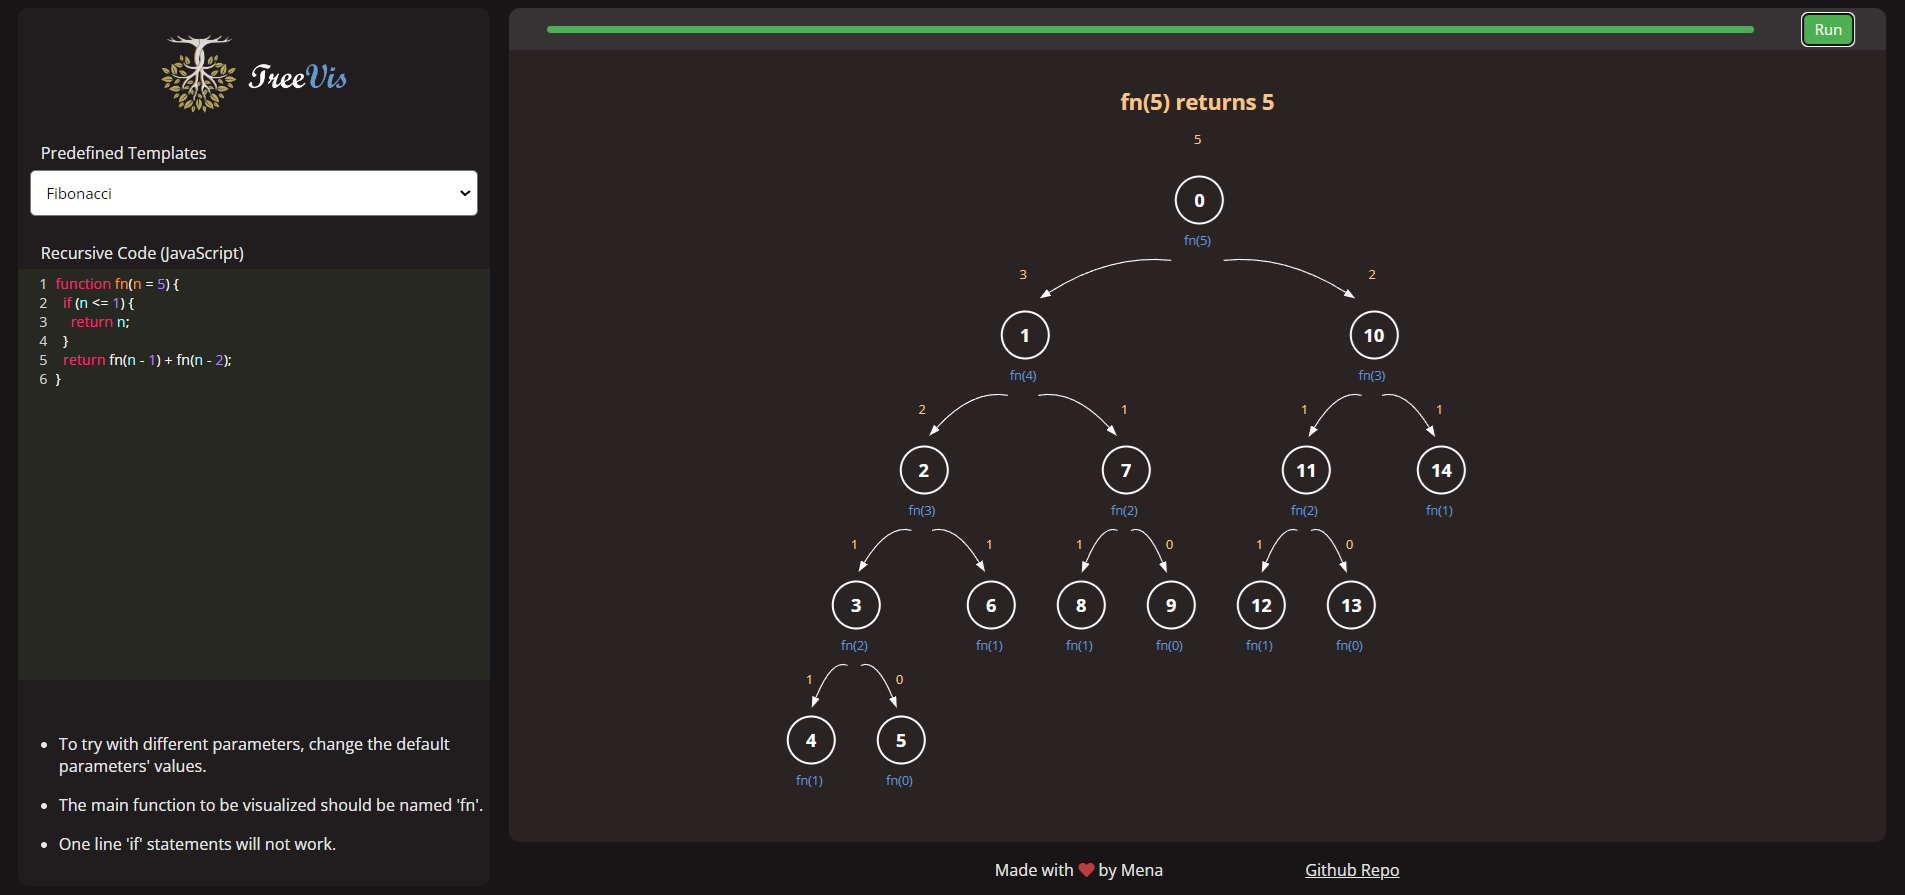
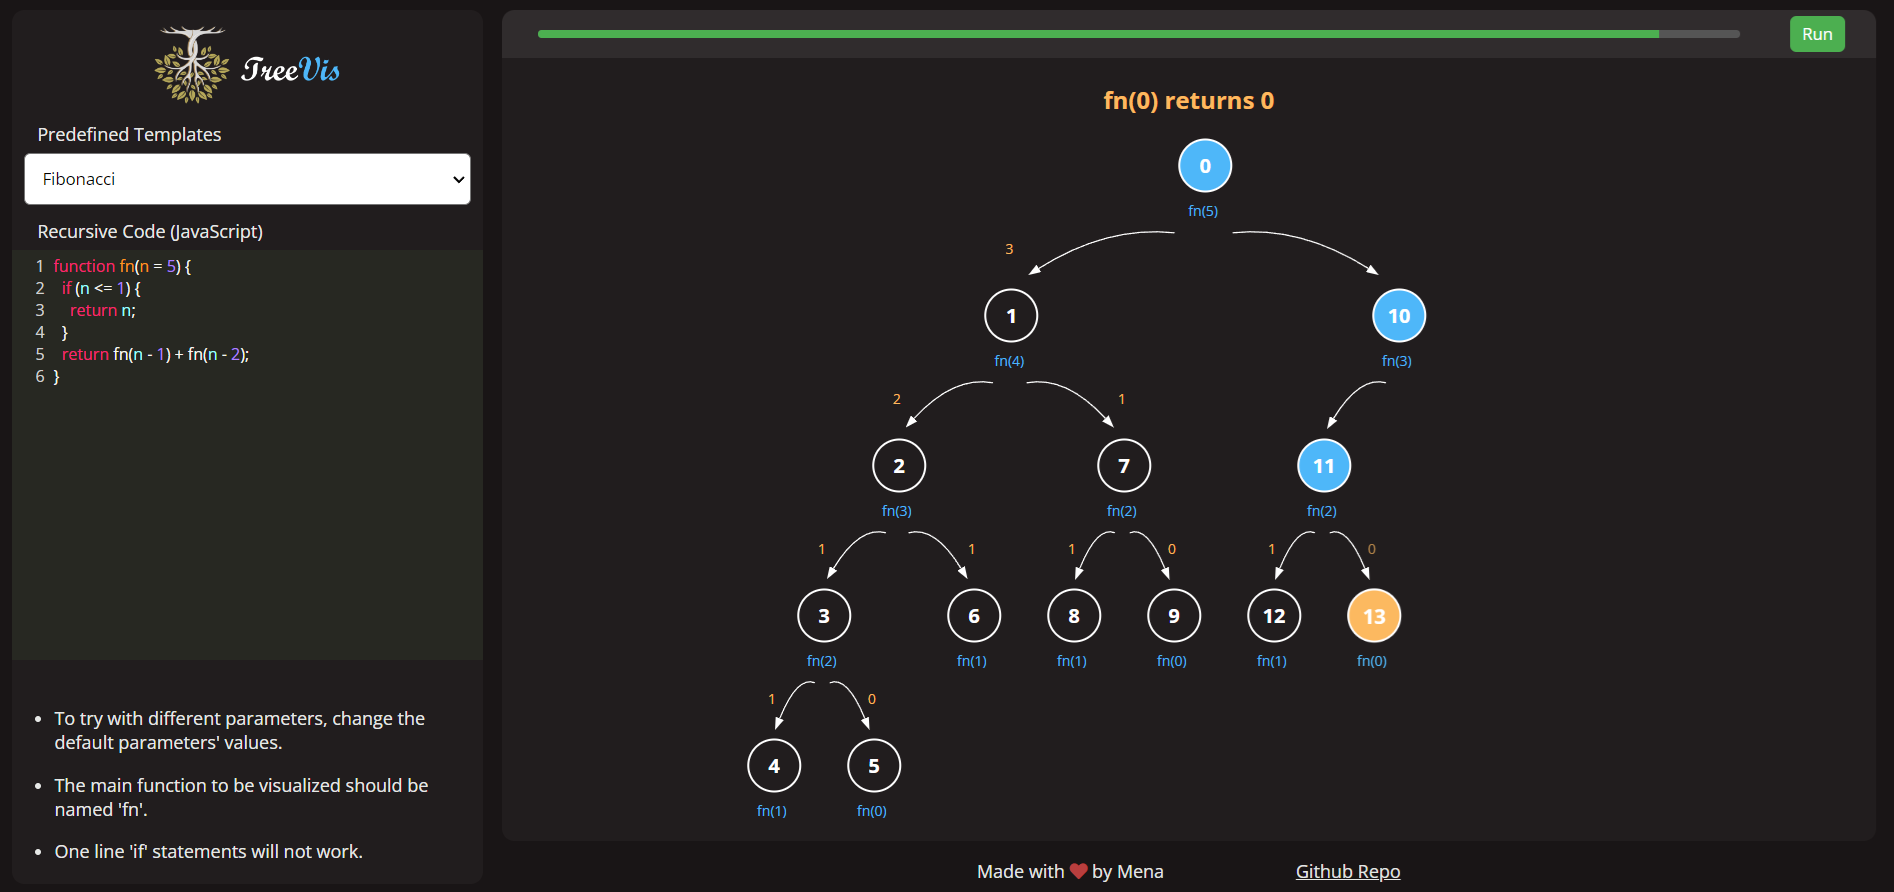
Minor design changes

diff --git a/Scripts/algorithms.js b/Scripts/algorithms.js
@@ -11,7 +11,7 @@ const algorithms = {
   }
   return n * fn(n - 1);
 }`,
-  MergeSort: `function fn(arr = [5, 2, 9, 1, 5, 6]) {
+  "Merge Sort": `function fn(arr = [5, 2, 9, 1, 5, 6]) {
     if (arr.length <= 1){
     return arr;
     }
@@ -37,20 +37,30 @@ function merge(left, right) {
 
     return result.concat(left.slice(i)).concat(right.slice(j));
 }`,
-  LongestCommonSubsequence: `str1 = "ABC";
-str2 = "AEB";
-function fn( m = str1.length, n = str2.length) {
+  "Longest Common Subsequence (Memoized)": `var str1 = "ABC";
+var str2 = "AEB";
+var memo = {}; 
+
+function fn(m = str1.length, n = str2.length) {
+    let key = m + "," + n;
+
     if (m === 0 || n === 0){
     return 0;
     }
-    if (str1[m - 1] === str2[n - 1]) {
-        return 1 + fn(m - 1, n - 1);
-    } else {
-        return Math.max(fn(m - 1, n), fn(m, n - 1));
+
+    if (key in memo){
+    return memo[key];
     }
-}
-`,
-  QuickSort: `function fn(arr = [3, 6, 8, 10, 1, 2, 1]) {
+
+    if (str1[m - 1] === str2[n - 1]) {
+        memo[key] = 1 + fn(m - 1, n - 1);
+    } else {
+        memo[key] = Math.max(fn(m - 1, n), fn(m, n - 1));
+    }
+
+    return memo[key];
+}`,
+  "Quick Sort": `function fn(arr = [3, 6, 8, 10, 1, 2, 1]) {
     if (arr.length <= 1) {
         return arr;
     }
@@ -72,7 +82,7 @@ function fn( m = str1.length, n = str2.length) {
 
     return sortedLeft.concat([pivot], sortedRight);
 }`,
-  FibonacciMemo: `const memo = {};
+  "Fibonacci (Memoized)": `const memo = {};
 function fn(n = 5) {
   if (n in memo) {
     return memo[n];
@@ -86,7 +96,7 @@ function fn(n = 5) {
   memo[n] = fn(n - 1) + fn(n - 2);
   return memo[n];
 }`,
-  BinarySearch: `function fn(arr = [1, 3, 5, 7, 9, 10, 20, 30, 40, 50, 60, 70, 80, 90, 100], target = 9, offset = 0) {
+  "Binary Search": `function fn(arr = [1, 3, 5, 7, 9, 10, 20, 30, 40, 50, 60, 70, 80, 90, 100], target = 9, offset = 0) {
   if (arr.length === 0) {
     return -1;
   }
@@ -107,7 +117,7 @@ function fn(n = 5) {
     return result !== -1 ? result : -1;
   }
 }`,
-  TowerOfHanoi: `function fn(disks = 3, source = 'A', target = 'C', auxiliary = 'B') {
+  "Tower Of Hanoi": `function fn(disks = 3, source = 'A', target = 'C', auxiliary = 'B') {
   if (disks === 1) {
     console.log(\`Move disk 1 from \${source} to \${target}\`);
     return;
@@ -124,7 +134,7 @@ function fn(n = 5) {
 
   return fn(b, a % b);
 }`,
-  PalindromePartitioning: `function fn(str = "aab", start = 0) {
+  "Palindrome Partitioning": `function fn(str = "aab", start = 0) {
   if (start >= str.length) {
     return [[]];
   }

diff --git a/Scripts/drawTree.js b/Scripts/drawTree.js
@@ -2,8 +2,8 @@
 const container = document.getElementById("visualizer");
 
 // Colors
-activeColor = "#6699CC";
-returnColor = "#F9C784";
+activeColor = "#4EB7F9";
+returnColor = "#FEB95F";
 
 // Create a text display element above the graph
 const textDisplay = document.createElement("div");

diff --git a/style.css b/style.css
@@ -94,7 +94,7 @@
   overflow: hidden;
 }
 .visualizer-container {
-  background-color: #2c2526dd;
+  background-color: #99858811;
   border-radius: 10px;
   height: 95%;
   display: flex;
